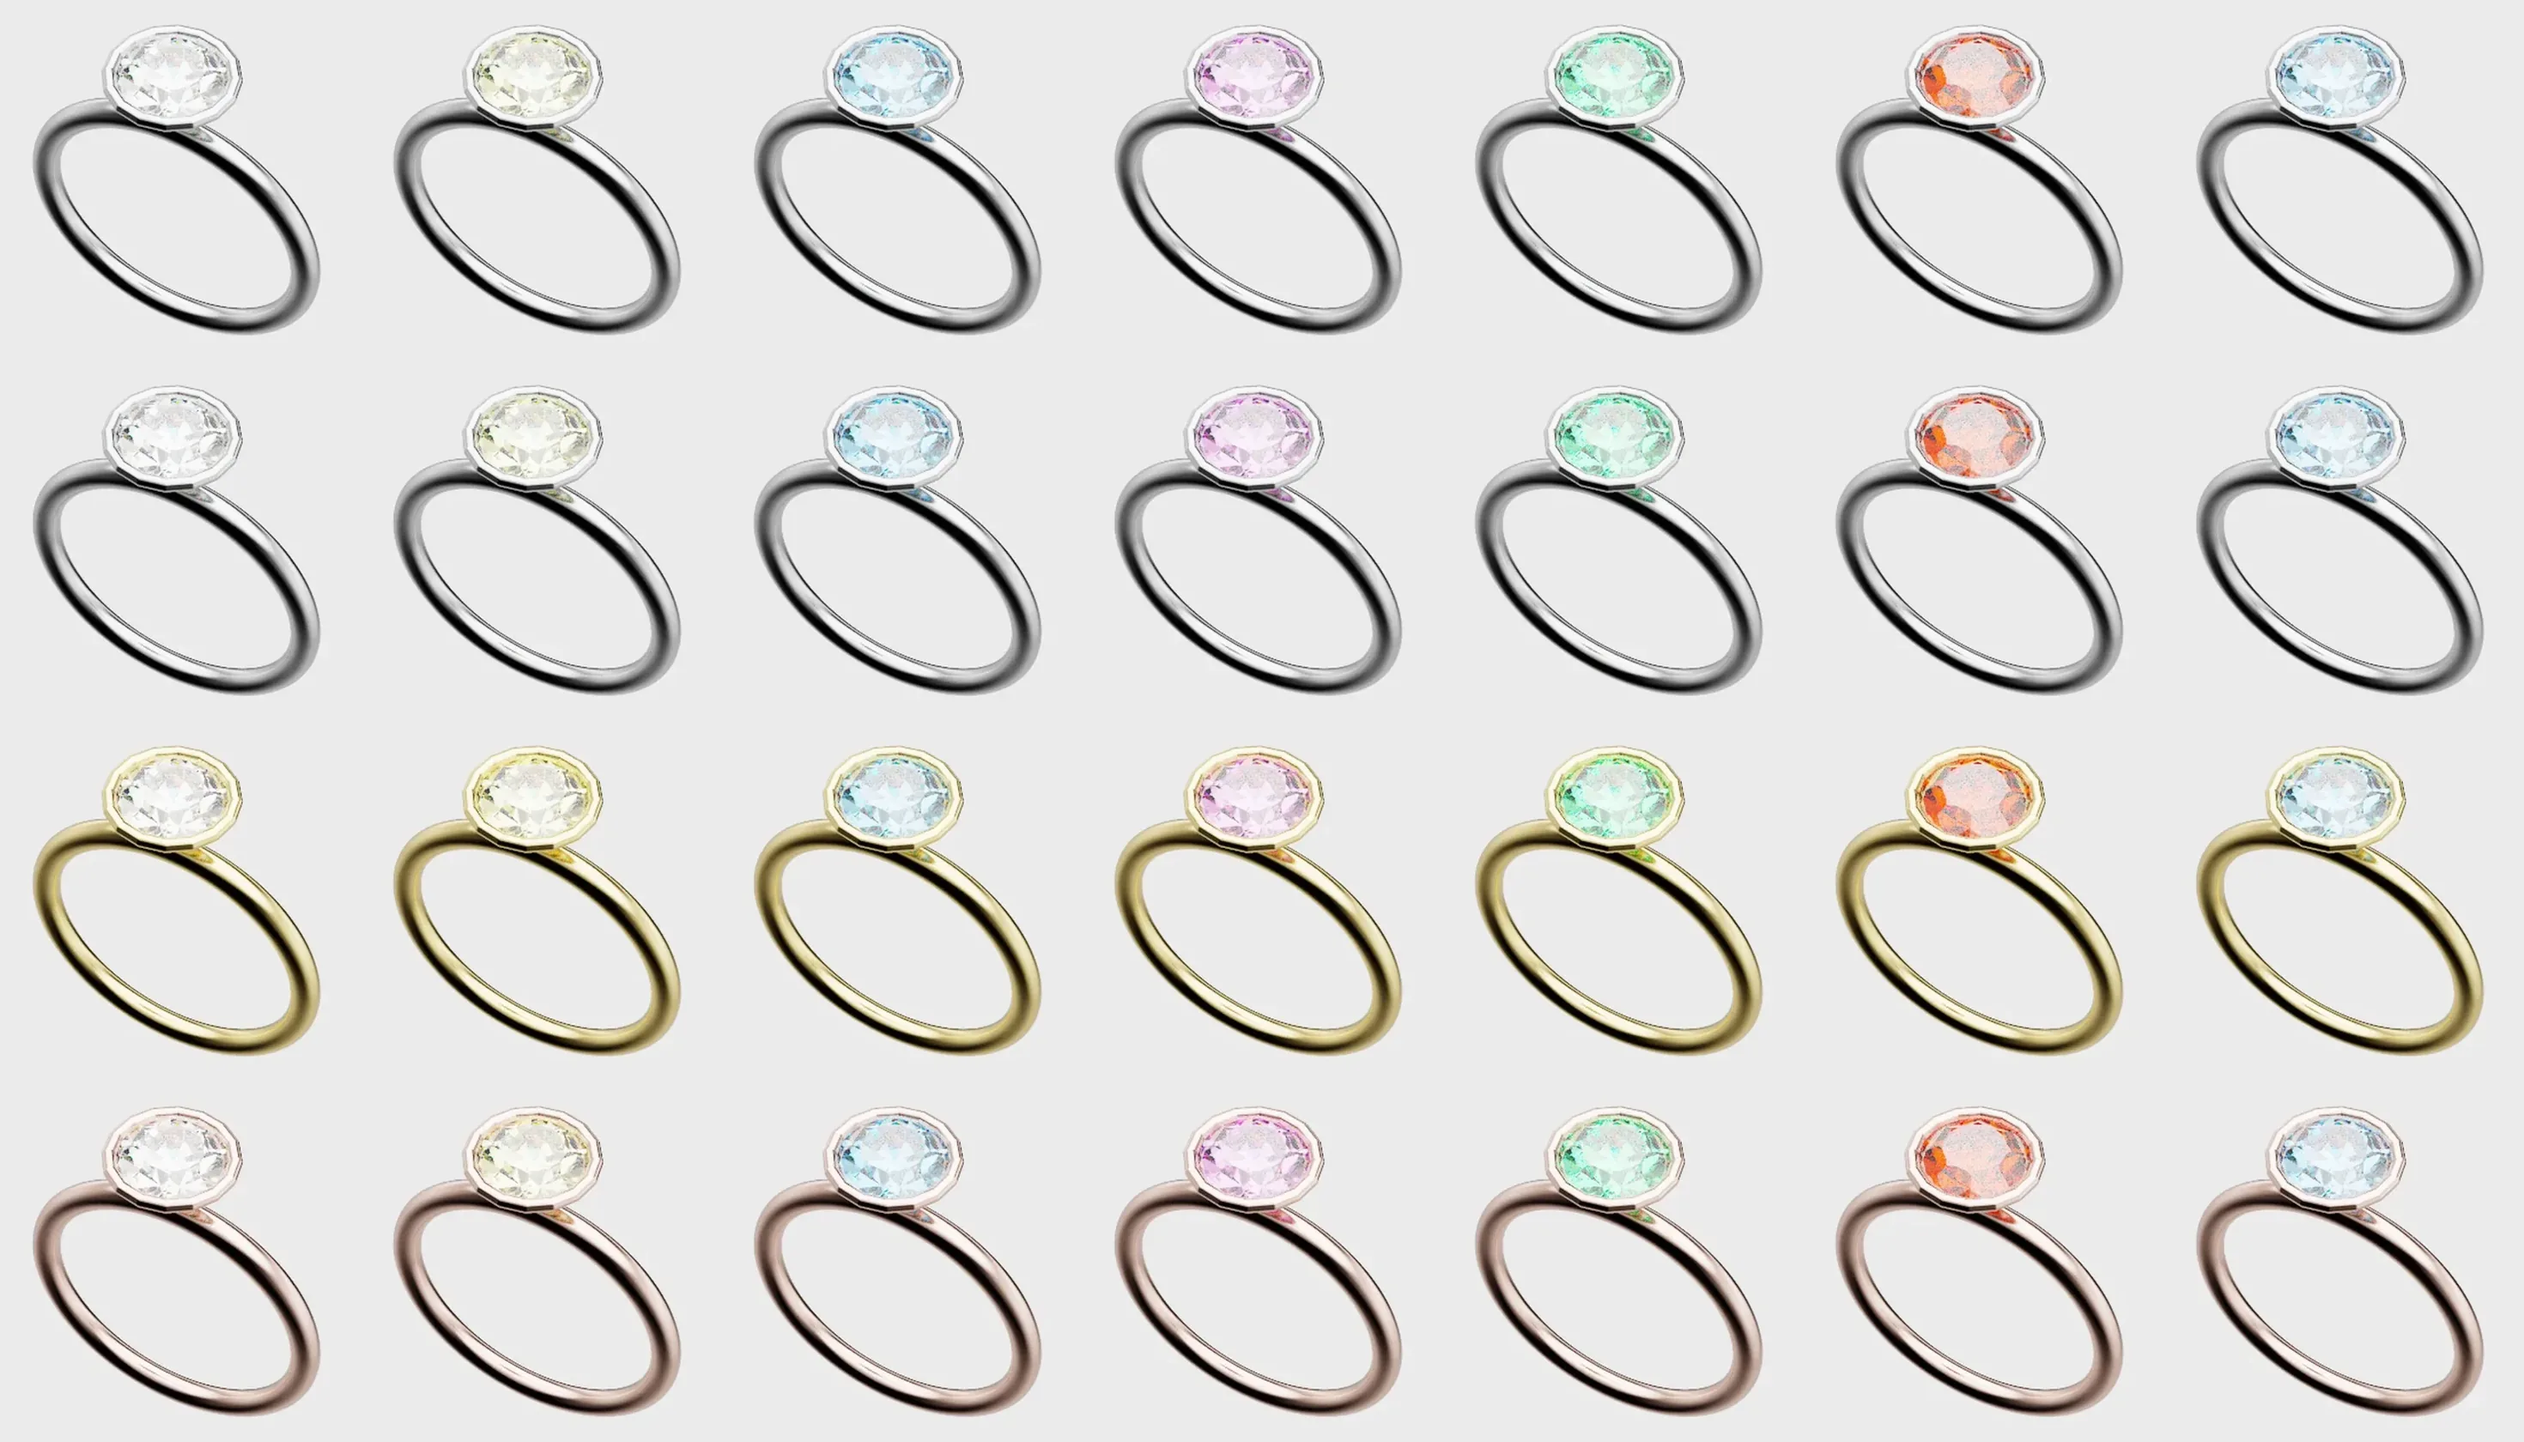
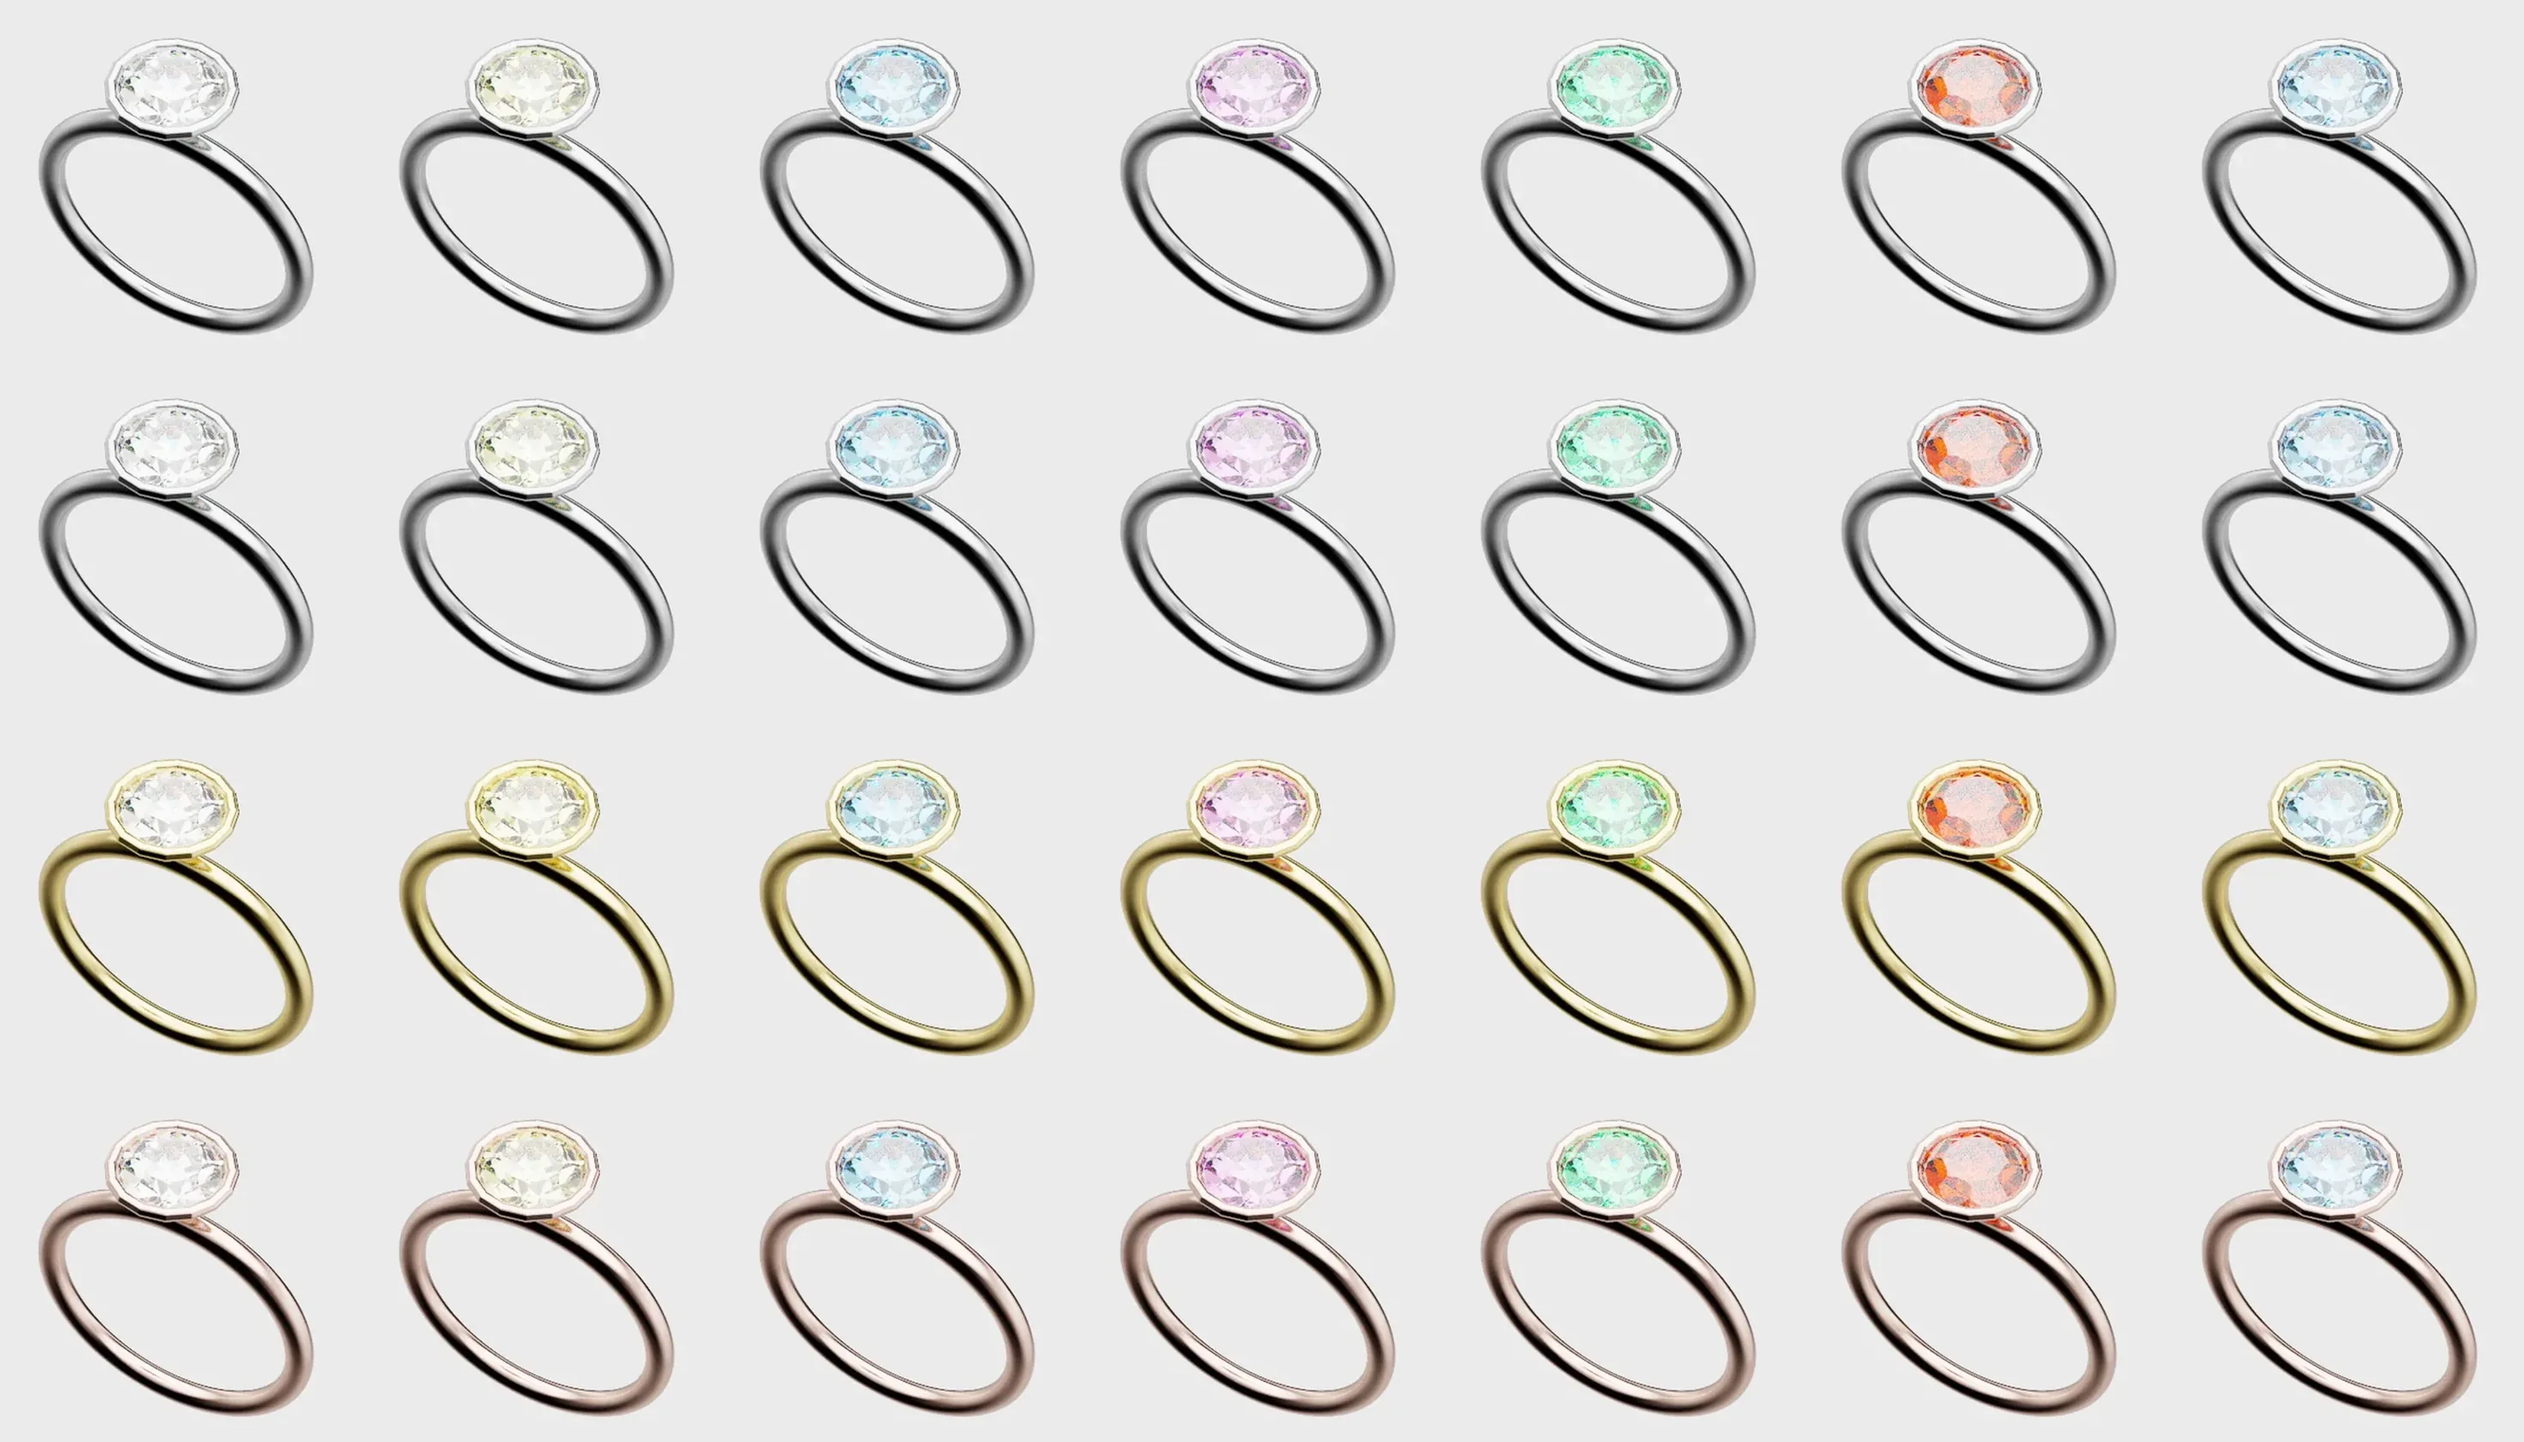
Все 115 просчитанных спрайтов и манифест
Долиты 68 недостающих спрайтов, 19 одноимённых заменены версиями после
normct.py (единый масштаб по весам внутри оправы).

diff --git a/constructor.html b/constructor.html
@@ -468,7 +468,7 @@ a{ color:inherit; text-decoration:none; }
   </div>
 </div>
 
-<script>window.R3D_HAVE={"bezel_oval":[50,100,200],"bezel_pear":[50],"bezel_round":[100],"cluster_round":[100],"eternity_round":[100],"eternityhalf_round":[100],"halo_cushion":[100],"halo_emerald":[100],"halo_oval":[100],"halo_pear":[100],"halo_princess":[100],"halo_round":[100],"halodouble_round":[100],"pave_cushion":[100],"pave_emerald":[100],"pave_oval":[100],"pave_pear":[100],"pave_princess":[100],"pave_round":[100],"solitaire6_round":[100],"solitaire_cushion":[50,100,200],"solitaire_emerald":[50,100,200],"solitaire_oval":[50,100,200,300],"solitaire_pear":[50,100,200],"solitaire_princess":[50,100,200],"solitaire_round":[50,100,200,300,400,700,1000],"tension_round":[100],"trinity_round":[100]};
+<script>window.R3D_HAVE={"bezel_oval":[50,100,200],"bezel_pear":[50,100,200],"bezel_round":[50,100,200],"cluster_oval":[50,100,200],"cluster_pear":[50,100,200],"cluster_round":[50,100,200],"eternity_oval":[50,100,200],"eternity_pear":[50,100,200],"eternity_round":[50,100,200],"eternityhalf_round":[50,100,200],"halo_cushion":[50,100,200],"halo_emerald":[50,100,200],"halo_oval":[50,100,200],"halo_pear":[50,100,200],"halo_princess":[50,100,200],"halo_round":[50,100,200,300],"halodouble_round":[50,100,200],"pave_cushion":[50,100,200],"pave_emerald":[50,100,200],"pave_oval":[50,100,200],"pave_pear":[50,100,200],"pave_princess":[50,100,200],"pave_round":[50,100,200,300],"solitaire6_round":[50,100,200],"solitaire_cushion":[50,100,200],"solitaire_emerald":[50,100,200],"solitaire_oval":[50,100,200,300],"solitaire_pear":[50,100,200],"solitaire_princess":[50,100,200],"solitaire_round":[50,100,200,300,400,700,1000],"tension_oval":[50,100,200],"tension_pear":[50,100,200],"tension_round":[50,100,200],"trinity_oval":[50,100,200],"trinity_pear":[50,100,200],"trinity_round":[50,100,200]};
 (function(){
   'use strict';
 
